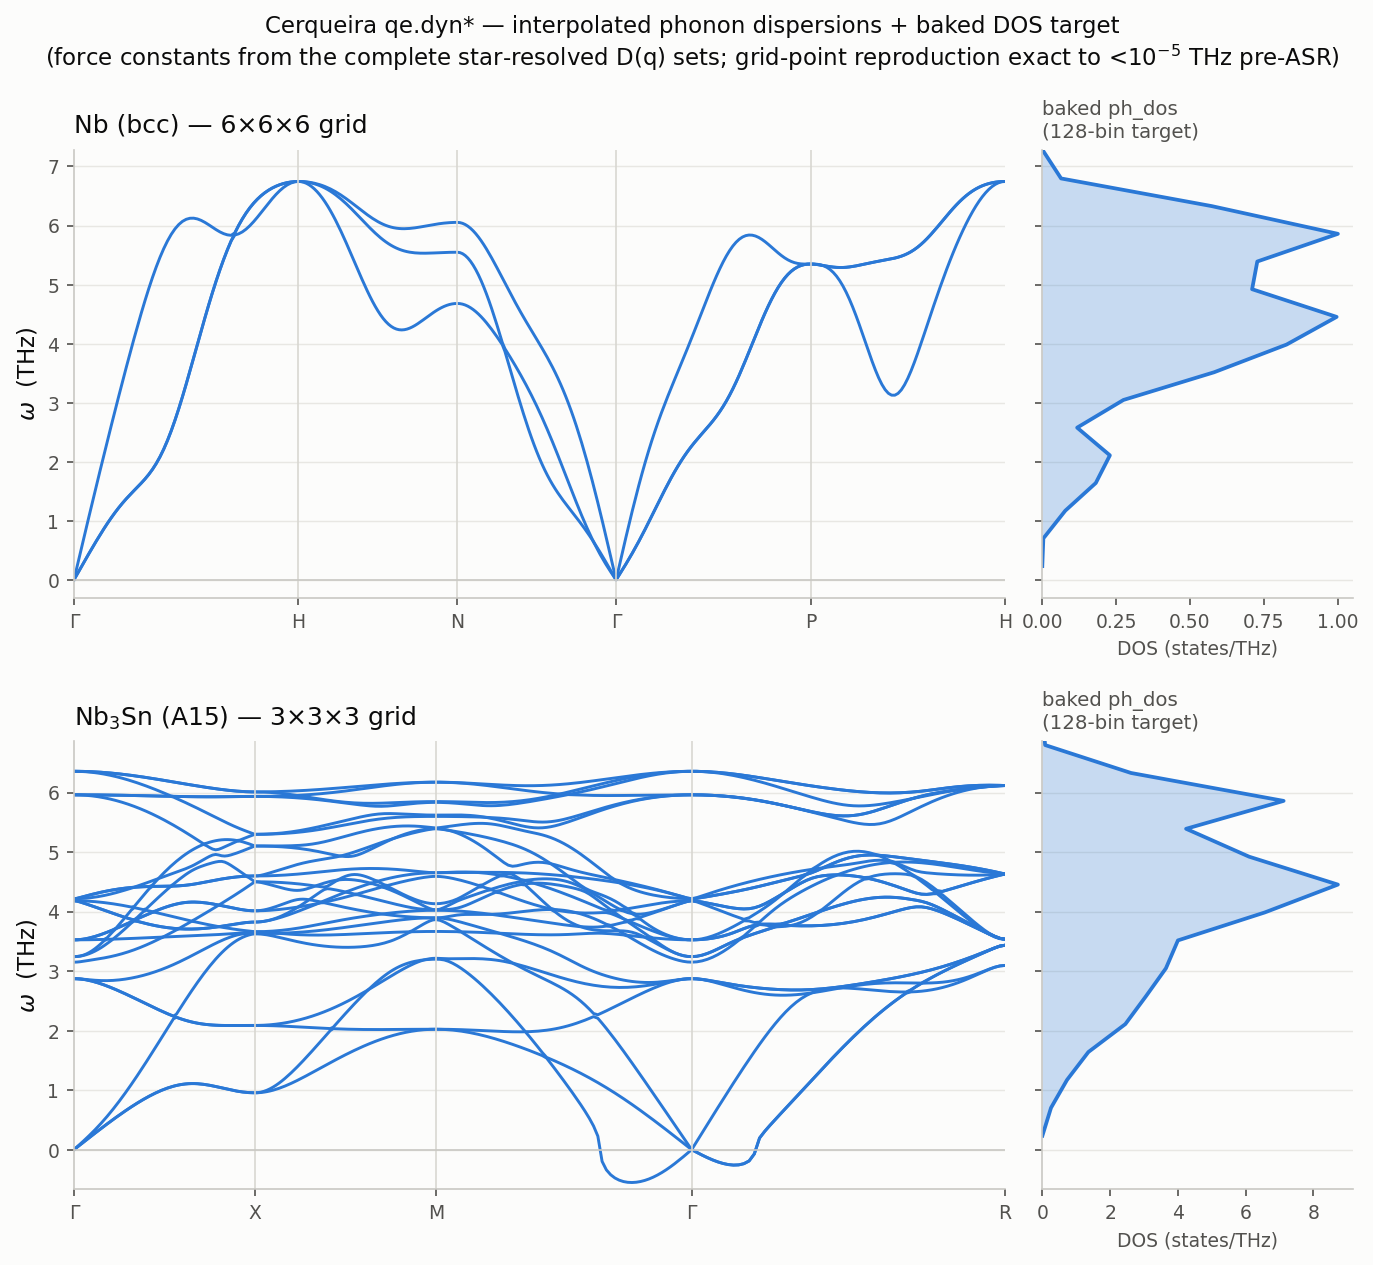
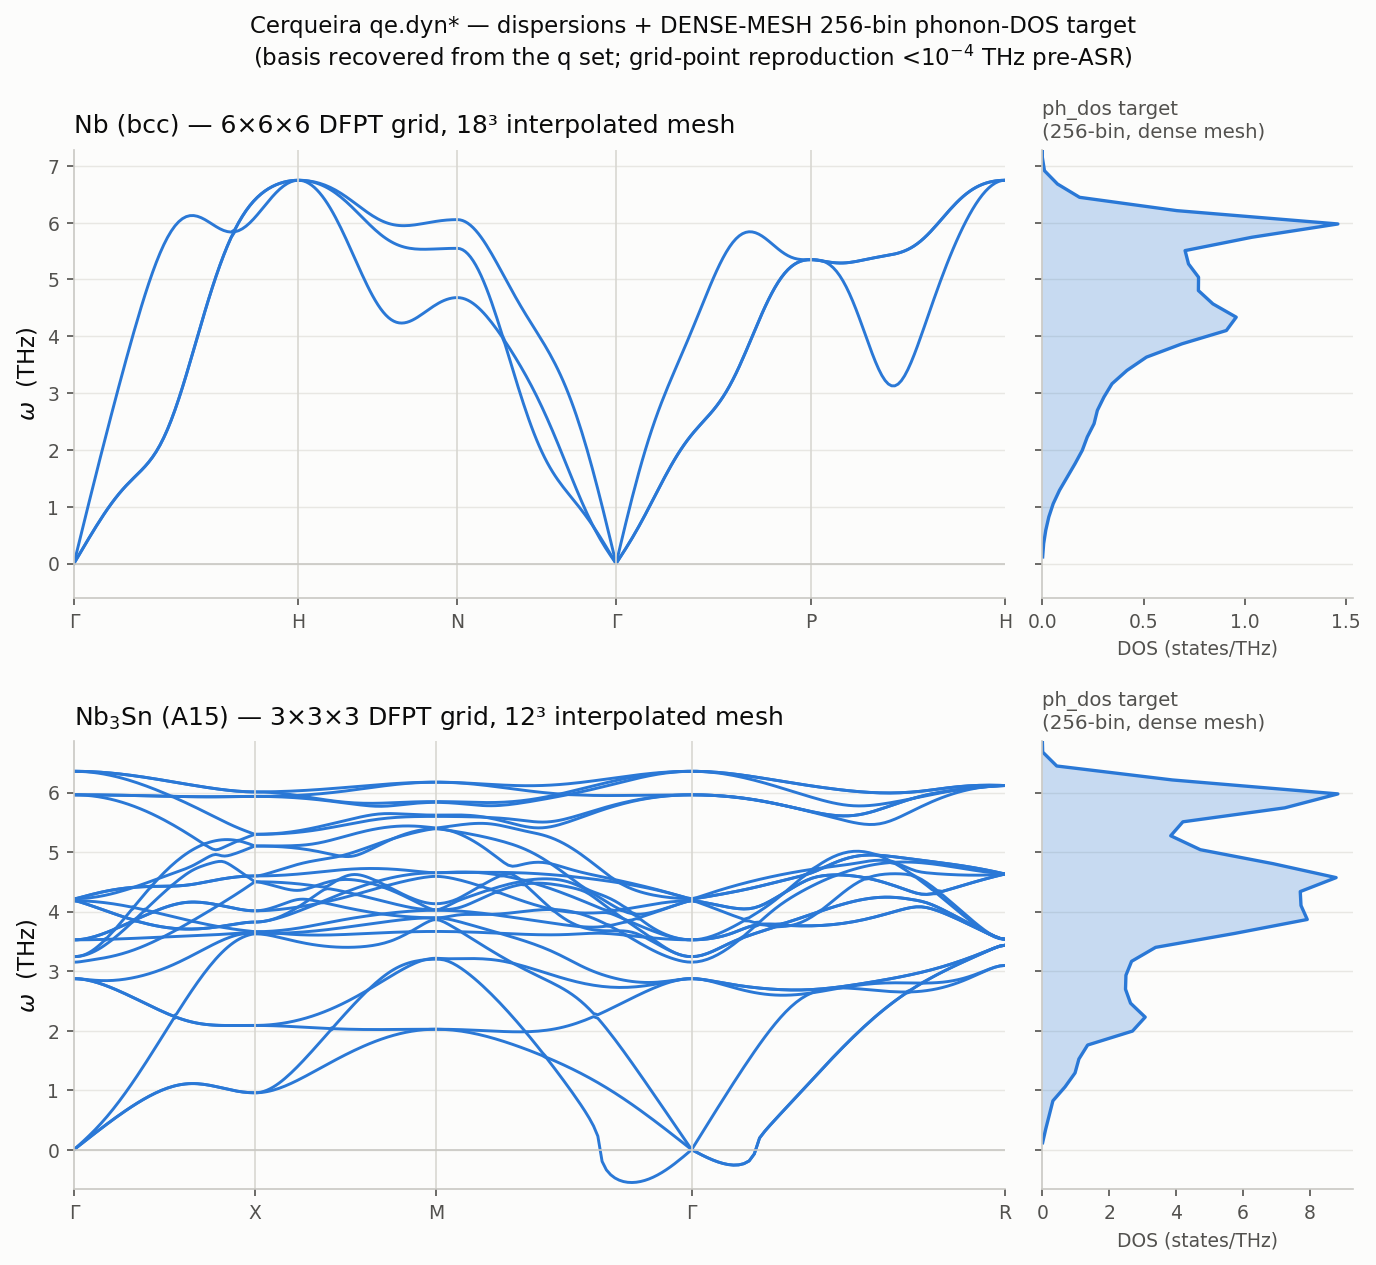
phonon grid 256 bins + dense-mesh DOS (q-set basis recovery, all ibravs, vectorized)
128/0.47THz washed out van Hove structure. Dense interpolated mesh (12-18^3),
sigma 0.15, per-material self-validation vs QE-listed grid freqs (<1e-4 THz
pre-ASR on ibrav 1/3/4/5/6/7). a2f rebinned at 256: median lambda err 0.05%,
16/8092 weak-coupling soft-mode outliers documented.

diff --git a/scripts/plot_phonon_dispersion.py b/scripts/plot_phonon_dispersion.py
@@ -38,7 +38,7 @@ def parse_dyn_dir(mat_dir):
     elif ibrav == 3:      # bcc (QE convention)
         at = 0.5 * np.array([[1, 1, 1], [-1, 1, 1], [-1, -1, 1]], float)
     else:
-        raise ValueError(f"ibrav {ibrav} not wired (add its lattice vectors)")
+        at = None         # non-cubic: caller must use recover_basis (q-set derived)
     masses = {}
     for k in range(ntyp):
         t = lines[idx + k].split("'")
@@ -130,6 +130,112 @@ def freqs_at(q, entries, asr, masses, nat):
     Msq = np.sqrt(np.outer(np.repeat(masses, 3), np.repeat(masses, 3)))
     ev = np.linalg.eigvalsh((D + D.conj().T) / 2 / Msq)
     return np.sign(ev) * np.sqrt(np.abs(ev)) * RY_TO_THZ
+
+
+def recover_basis(qs, tol=1e-5):
+    """Recover the q-grid's generating basis PURELY from the q-point set —
+    lattice-convention-free (works for every ibrav, unlike hand-wired vectors).
+
+    The full-grid q's form a lattice L generated by g_i = b_i/N_i. Greedily pick
+    the 3 shortest independent candidates (q's + pairwise differences) under the
+    constraint that EVERY q is an integer combination; returns (G rows g_i,
+    N per generator, A rows a_j in alat units with g_i . a_j = delta_ij/N_i).
+    Self-validating downstream: grid-point frequencies must reproduce QE's."""
+    qs = np.asarray(qs, float)
+    qs = qs[np.linalg.norm(qs, axis=1) > tol]
+    cands = [qs]
+    for k in range(min(len(qs), 60)):
+        cands.append(qs - qs[k])
+    cands = np.unique(np.round(np.concatenate(cands), 7), axis=0)
+    cands = cands[np.linalg.norm(cands, axis=1) > tol]
+    cands = cands[np.argsort(np.linalg.norm(cands, axis=1))]
+    basis = []
+    for c in cands:
+        trial = basis + [c]
+        if np.linalg.matrix_rank(np.array(trial), tol=tol) != len(trial):
+            continue
+        basis = trial
+        if len(basis) == 3:
+            G = np.array(basis)
+            M = qs @ np.linalg.inv(G)
+            if np.abs(M - np.round(M)).max() < 1e-4:
+                break
+            basis = basis[:2]     # last pick fails integrality: try the next
+    else:
+        raise ValueError("could not recover a generating basis from the q set")
+    G = np.array(basis)
+    return G
+
+
+def assign_grid(G, qs, grid_dims):
+    """Assign dyn0's (N1,N2,N3) to the recovered generators: the correct
+    permutation makes the coefficient residues cover the full N1xN2xN3 grid."""
+    from itertools import permutations
+    M = np.round(np.concatenate([qs, [[0, 0, 0]]]) @ np.linalg.inv(G)).astype(int)
+    M = np.unique(M, axis=0)
+    for perm in permutations(grid_dims):
+        N = np.array(perm, int)
+        if len(np.unique(np.mod(M, N), axis=0)) == int(np.prod(N)) and \
+           len(M) <= int(np.prod(N)):
+            B = G * N[:, None]             # full reciprocal vectors b_i = N_i g_i
+            A = np.linalg.inv(B).T         # a_j rows: b_i . a_j = delta_ij
+            return N, A
+    raise ValueError(f"no grid-dim assignment of {grid_dims} covers the q set")
+
+
+def dense_phdos(mat_dir, centers, sigma=0.15, mesh_cap=16):
+    """Phonon DOS on the fixed grid from a DENSE interpolated q-mesh (vectorized
+    D(q) assembly + batched eigh). Returns (dos, nat, kept_frac, grid_err) or
+    raises. grid_err = max |interpolated - QE-listed| at the calculated q's
+    (pre-ASR would be exact; ASR redistribution keeps this ~0.3 THz)."""
+    at, tau, m, qd, freq_ref, nat = parse_dyn_dir(mat_dir)
+    qs = np.array(list(qd.keys()))
+    grid_dims = [int(x) for x in
+                 open(os.path.join(mat_dir, "qe.dyn0")).readline().split()[:3]]
+    G = recover_basis(qs)
+    N, A = assign_grid(G, qs, grid_dims)
+    if int(np.prod(N)) != len(qs):
+        raise ValueError(f"grid {N} inconsistent with {len(qs)} q-points")
+    entries, asr = force_constants(A, tau, qd, nat, N)
+    # per-material validation at the calculated q's (no ASR -> must be exact)
+    zero = [a * 0 for a in asr]
+    errs = [np.abs(np.sort(freqs_at(np.array(q), entries, zero, m, nat))
+                   - np.sort(np.array(r))).max() for q, r in freq_ref.items()]
+    grid_err = max(errs) if errs else float("nan")
+    # dense mesh (offset to avoid duplicating the calculated points exactly)
+    Mm = np.minimum(mesh_cap, np.maximum(12, 3 * N))
+    fr = [(np.arange(Mi) + 0.5) / Mi for Mi in Mm]
+    mesh = np.array(np.meshgrid(*fr, indexing="ij")).reshape(3, -1).T @ (G * N[:, None])
+    # group entries by (i, j) pair for vectorized assembly
+    from collections import defaultdict
+    groups = defaultdict(lambda: [[], [], []])
+    for i, j, Rc, w, blk in entries:
+        g = groups[(i, j)]
+        g[0].append(Rc); g[1].append(w); g[2].append(blk)
+    nq = len(mesh)
+    D = np.zeros((nq, 3 * nat, 3 * nat), complex)
+    for (i, j), (Rcs, ws, blks) in groups.items():
+        Rcs = np.array(Rcs); ws = np.array(ws); blks = np.array(blks)
+        ph = np.exp(2j * np.pi * (mesh @ Rcs.T)) * ws          # (nq, k)
+        D[:, 3 * i:3 * i + 3, 3 * j:3 * j + 3] += np.tensordot(ph, blks, axes=([1], [0]))
+    for i in range(nat):
+        D[:, 3 * i:3 * i + 3, 3 * i:3 * i + 3] -= asr[i]
+    Msq = np.sqrt(np.outer(np.repeat(m, 3), np.repeat(m, 3)))
+    ev = np.linalg.eigvalsh((D + np.conj(np.transpose(D, (0, 2, 1)))) / 2 / Msq)
+    freqs = (np.sign(ev) * np.sqrt(np.abs(ev)) * RY_TO_THZ).ravel()
+    pos = freqs > 0
+    kept = pos.mean()
+    dos = np.zeros(len(centers))
+    # chunked gaussian accumulation (freqs can be ~200k)
+    for c0 in range(0, pos.sum(), 20000):
+        f = freqs[pos][c0:c0 + 20000]
+        dos += np.exp(-0.5 * ((centers[:, None] - f[None, :]) / sigma) ** 2).sum(axis=1)
+    dos /= sigma * np.sqrt(2 * np.pi)
+    dw = centers[1] - centers[0]
+    target = 3.0 * nat * kept
+    if dos.sum() * dw > 0:
+        dos *= target / (dos.sum() * dw)
+    return dos.astype(np.float32), nat, kept, grid_err
 
 
 PATHS = {

diff --git a/scripts/build_phonon_targets.py b/scripts/build_phonon_targets.py
@@ -115,7 +115,23 @@ def cmd_a2f(dry_run=False):
 
 
 _FREQ_RE = re.compile(r"freq\s*\(\s*\d+\s*\)\s*=\s*(-?[\d.]+)\s*\[THz\]")
-PHDOS_SIGMA_THZ = 0.25          # smearing for the coarse (3^3-4^3) q grids
+PHDOS_SIGMA_THZ = 0.15          # dense interpolated mesh -> tight smearing
+
+
+def _phdos_one(d):
+    """Worker: dense-mesh DOS for one material dir -> (agm, dos, kept, err) or
+    (agm, None, msg, None) on failure."""
+    sys.path.insert(0, os.path.join(_ROOT, "scripts"))
+    from plot_phonon_dispersion import dense_phdos
+    centers = (np.arange(PHONON_N_BINS) + 0.5) * (PHONON_W_MAX_THZ / PHONON_N_BINS)
+    agm = d.rsplit("_", 1)[-1]
+    try:
+        dos, nat, kept, err = dense_phdos(d, centers, sigma=PHDOS_SIGMA_THZ)
+        if not np.isfinite(err) or err > 0.02:
+            return agm, None, f"grid validation err {err}", None
+        return agm, dos, kept, err
+    except Exception as e:  # noqa: BLE001 — per-material isolation
+        return agm, None, str(e)[:120], None
 
 
 def read_dyn_freqs(mat_dir):
@@ -146,53 +162,40 @@ def read_dyn_freqs(mat_dir):
 
 
 def cmd_phdos(dry_run=False):
-    dirs = glob.glob(os.path.join(EPH, "a2f_raw", "batch-*", "*_agm*"))
+    """Dense-mesh phonon DOS (interpolated force constants, basis recovered
+    from the q set — lattice-convention-free) baked per material; each worker
+    self-validates against QE's listed grid frequencies (skip if err > 0.02 THz)."""
+    from multiprocessing import Pool
+    dirs = sorted(d for d in glob.glob(os.path.join(EPH, "a2f_raw", "batch-*", "*_agm*"))
+                  if glob.glob(os.path.join(d, "qe.dyn[1-9]*")))
     graph_dir = os.path.join(EPH, "graphs_v45_eph")
-    centers = (np.arange(PHONON_N_BINS) + 0.5) * (PHONON_W_MAX_THZ / PHONON_N_BINS)
-    dw = PHONON_W_MAX_THZ / PHONON_N_BINS
-    n_ok = n_nodyn = n_badgrid = 0
-    imag_frac, clip_frac = [], []
-    for d in sorted(dirs):
-        agm = d.rsplit("_", 1)[-1]
-        gpath = os.path.join(graph_dir, agm + ".json")
-        freqs, w, nat, grid_total = read_dyn_freqs(d)
-        if not freqs or nat is None or not os.path.exists(gpath):
-            n_nodyn += 1
-            continue
-        if grid_total is not None and int(w.sum()) != grid_total:
-            n_badgrid += 1                       # count, but keep — weights still relative
-        allf = np.concatenate(freqs)
-        allw = np.concatenate([np.full(len(f), ww) for f, ww in zip(freqs, w)])
-        pos = allf > 0
-        imag_frac.append(1.0 - allw[pos].sum() / allw.sum())
-        # Gaussian smear onto the fixed grid; renormalize the KEPT weight to
-        # 3*nat*(kept fraction) so dropped imaginary modes don't inflate the rest.
-        dos = np.zeros(PHONON_N_BINS)
-        for f0, ww in zip(allf[pos], allw[pos]):
-            dos += ww * np.exp(-0.5 * ((centers - f0) / PHDOS_SIGMA_THZ) ** 2)
-        dos /= (PHDOS_SIGMA_THZ * np.sqrt(2 * np.pi))
-        clip_frac.append(float(allw[pos & (allf > PHONON_W_MAX_THZ)].sum() / allw.sum()))
-        target_modes = 3.0 * nat * (allw[pos].sum() / allw.sum())
-        integ = dos.sum() * dw
-        if integ > 0:
-            dos *= target_modes / integ
-        if not dry_run:
-            g = json.load(open(gpath))
-            g["ph_dos"] = [round(float(x), 8) for x in dos]
-            tmp = gpath + ".tmp"
-            json.dump(g, open(tmp, "w"))
-            os.replace(tmp, gpath)
-        n_ok += 1
-        if n_ok % 500 == 0:
-            print(f"  baked {n_ok}", flush=True)
-    imag_frac = np.array(imag_frac)
-    print(f"phdos bake: {n_ok} baked, {n_nodyn} without dyn/graph, "
-          f"{n_badgrid} weight-sum != dyn0 grid")
-    if len(imag_frac):
-        print(f"imaginary-mode weight: median {np.median(imag_frac)*100:.2f}% "
-              f"p95 {np.percentile(imag_frac,95)*100:.2f}% "
-              f"| >5% imag: {(imag_frac>0.05).sum()} materials "
-              f"| clipped >60THz: {(np.array(clip_frac)>0.01).sum()} materials")
+    n_ok = n_fail = 0
+    kept_fr, errs = [], []
+    with Pool(min(12, os.cpu_count() or 1)) as pool:
+        for agm, dos, kept, err in pool.imap_unordered(_phdos_one, dirs, chunksize=8):
+            gpath = os.path.join(graph_dir, agm + ".json")
+            if dos is None or not os.path.exists(gpath):
+                n_fail += 1
+                if n_fail <= 15:
+                    print(f"  skip {agm}: {kept}", flush=True)
+                continue
+            if not dry_run:
+                g = json.load(open(gpath))
+                g["ph_dos"] = [round(float(x), 8) for x in dos]
+                tmp = gpath + ".tmp"
+                json.dump(g, open(tmp, "w"))
+                os.replace(tmp, gpath)
+            kept_fr.append(kept)
+            errs.append(err)
+            n_ok += 1
+            if n_ok % 500 == 0:
+                print(f"  baked {n_ok}", flush=True)
+    kept_fr, errs = np.array(kept_fr), np.array(errs)
+    print(f"phdos bake (dense mesh): {n_ok} baked, {n_fail} skipped")
+    if len(kept_fr):
+        print(f"grid-validation err: median {np.median(errs):.5f} max {errs.max():.5f} THz")
+        print(f"stable-mode fraction: median {np.median(kept_fr)*100:.2f}% "
+              f"| <95% stable: {(kept_fr < 0.95).sum()} materials")
 
 
 if __name__ == "__main__":

diff --git a/models/common/data.py b/models/common/data.py
@@ -366,12 +366,14 @@ def _edge_to_fea(edge: dict, center_is_source: bool = True) -> np.ndarray:
 
 
 # --- Phonon-spectrum targets (eph_a2f: Eliashberg alpha^2F; ph_dos: phonon DOS) ---
-# One SHARED fixed grid for both, in THz: 128 bins over 0-60 THz covers the
+# One SHARED fixed grid for both, in THz: 256 bins over 0-60 THz covers the
 # corpus (Cerqueira batch-a omega_max: median 8.7, p95 37.9, max 60.8 THz —
-# hydrides carry the tail; rare >60 THz weight is clipped). Spectra are baked
+# hydrides carry the tail; rare >60 THz weight is clipped). 256 bins = 0.23
+# THz/bin: enough to resolve van Hove structure in the ~7-THz-wide metallic
+# spectra (128/0.47 THz washed it out — review 2026-08-25). Spectra are baked
 # into graph JSONs as "a2f" / "ph_dos" keys (bin-averaged, see bin_spectrum),
 # NaN-masked when absent — same flow as the electronic "dos" target.
-PHONON_N_BINS = 128
+PHONON_N_BINS = 256
 PHONON_W_MAX_THZ = 60.0
 
 

diff --git a/models/GPSTransformer/model.py b/models/GPSTransformer/model.py
@@ -298,7 +298,7 @@ class GPSCrystalNet(nn.Module):
                  use_bond_edges=True, shell_aggregation="attention", use_angle_bias=True,
                  use_dist_bias=False, dist_cutoff=8.0, n_dist_rbf=16,
                  classification=False, tasks=None, n_energy=256, dos_per_atom=True,
-                 n_phonon=128,
+                 n_phonon=256,
                  differentiable_geometry=False):
         super().__init__()
         if atom_pooling not in self._POOLINGS:
@@ -601,7 +601,7 @@ class GPSCrystalNet(nn.Module):
             tasks=(set(args["tasks"]) if multitask else None),
             differentiable_geometry=multitask,
             n_energy=args.get("n_energy", 256),
-            n_phonon=args.get("n_phonon", 128),
+            n_phonon=args.get("n_phonon", 256),
             dos_per_atom=args.get("dos_per_atom", True),
         )
 
